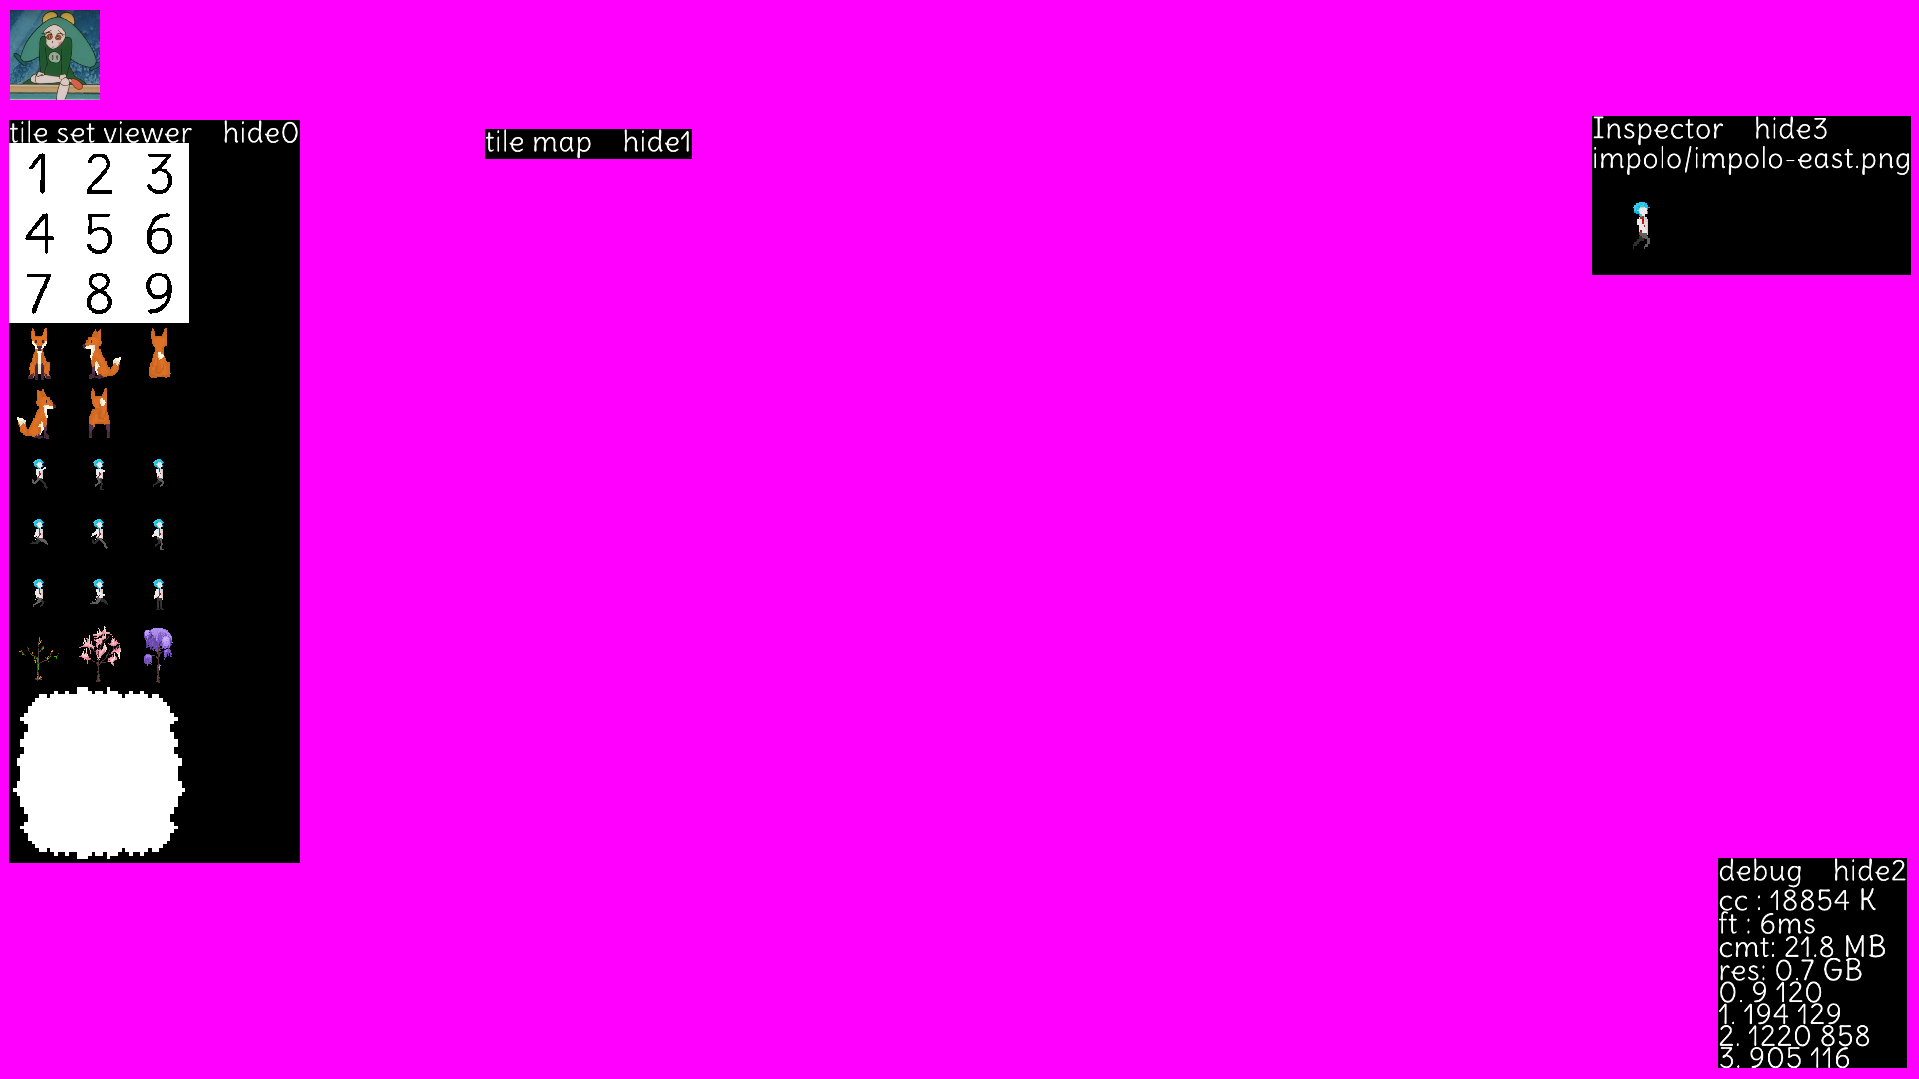
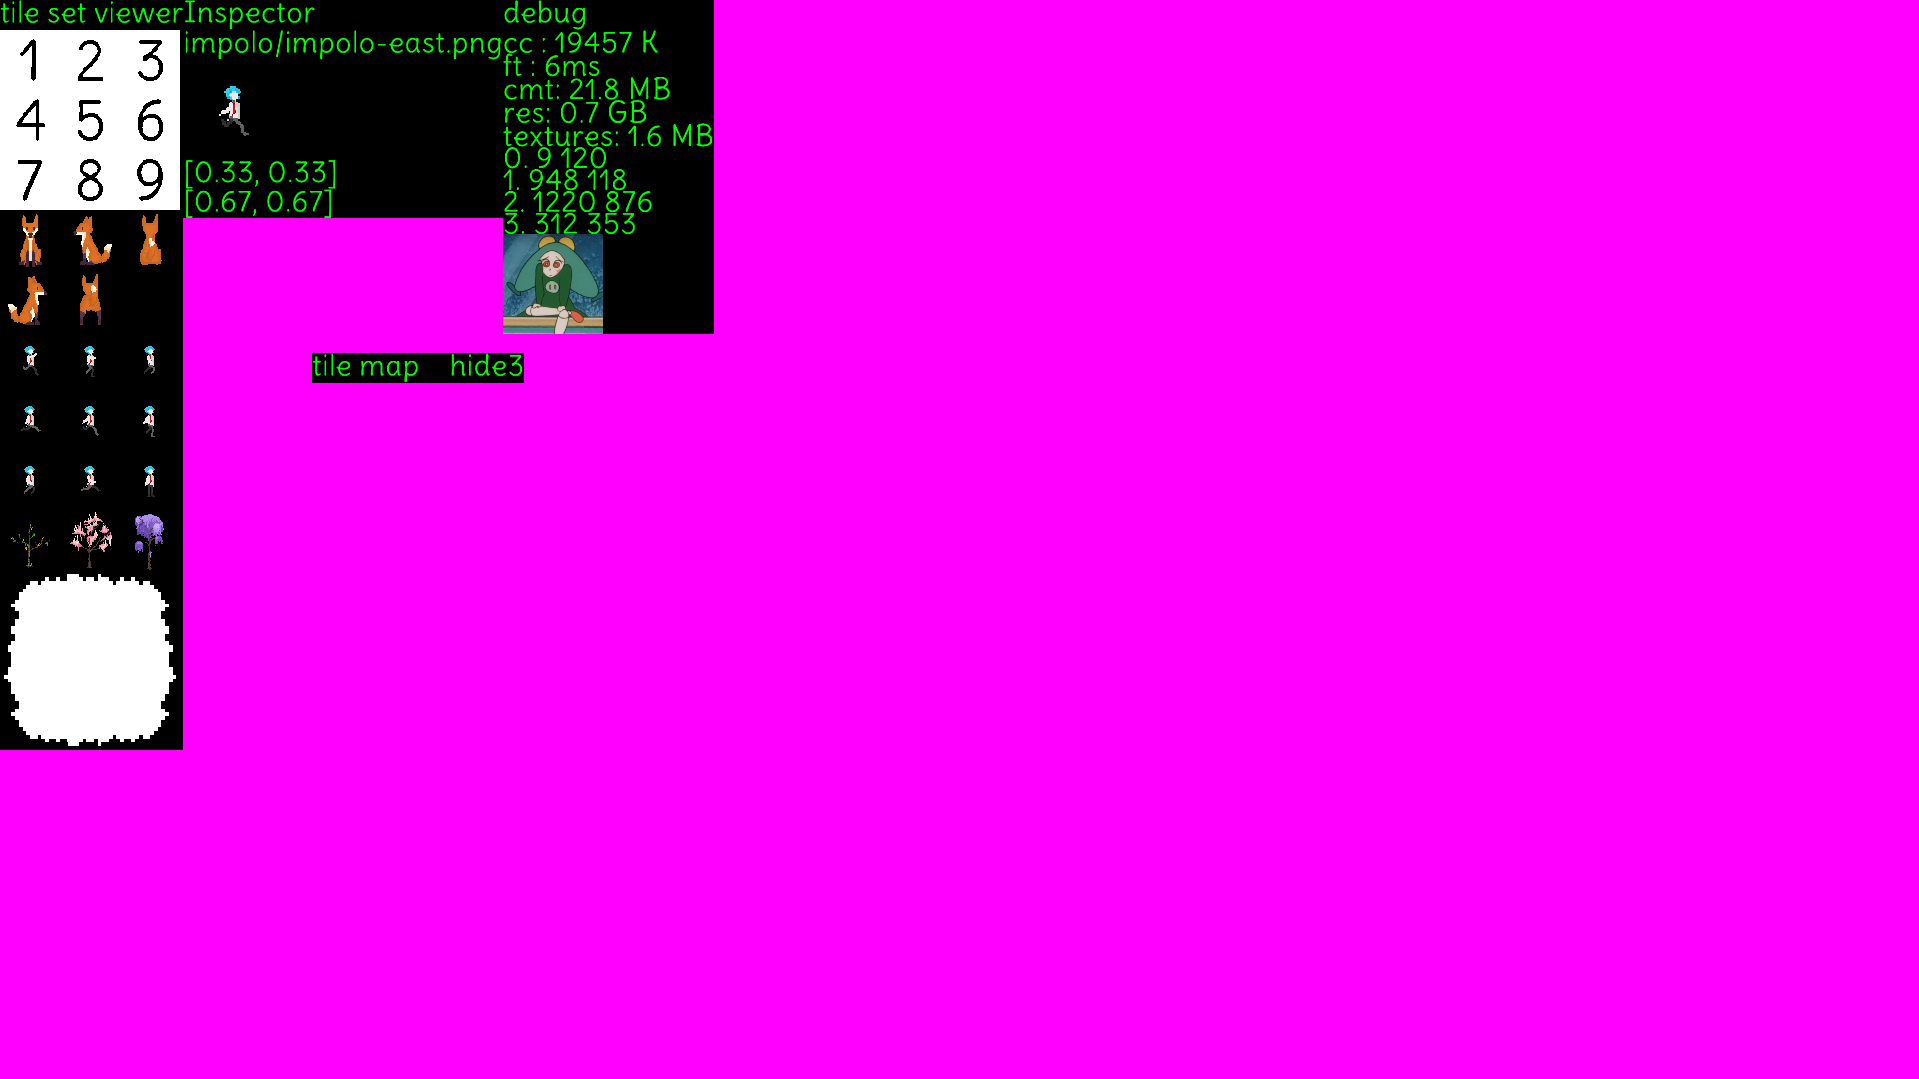
floating panels

Changed region(s): [[0.0, 0.0, 0.3997, 0.8258], [0.8301, 0.0918, 1.0, 0.2753], [0.8916, 0.7952, 1.0, 1.0]]

diff --git a/code/editor/editor.cpp b/code/editor/editor.cpp
@@ -50,55 +50,97 @@ void ed_update(State *state, OS_Event_list *events, f32 delta)
 		ed_state->arena = arena_create();
 		
 		ed_state->cxt = ui_alloc_cxt();
-		ed_state->panels[0].pos = {{9, 120}};
-		ed_state->panels[0].scale = v2f{{1.6,0.3}};
-		ed_state->panels[0].name = push_str8f(ed_state->arena, "tile set viewer");
 		
-		ed_state->panels[1].pos = {{391, 192}};
-		ed_state->panels[1].scale = v2f{{1.6,0.3}};
-		ed_state->panels[1].name = push_str8f(ed_state->arena, "tile map");
+		// panel construction
+		{
+			ED_Panel *p = ed_state->panels + ED_PanelKind_TileSetViewer;
+			p->pos = {{9, 120}};
+			p->scale = v2f{{1.6,0.3}};
+			p->name = push_str8f(ed_state->arena, "tile set viewer");
+		}
 		
-		ed_state->panels[2].pos = {{1218, 877}};
-		ed_state->panels[2].scale = v2f{{1.6,0.3}};
-		ed_state->panels[2].hide = 1;
-		ed_state->panels[2].name = push_str8f(ed_state->arena, "debug");
+		{
+			ED_Panel *p = ed_state->panels + ED_PanelKind_TileMap;
+			p->pos = {{312, 353}};
+			p->scale = v2f{{1.6,0.3}};
+			p->name = push_str8f(ed_state->arena, "tile map");
+			p->floating = 1;
+		}
 		
-		ed_state->panels[3].pos = {{948, 120}};
-		ed_state->panels[3].scale = v2f{{1.6,0.3}};
-		ed_state->panels[3].hide = 0;
-		ed_state->panels[3].name = push_str8f(ed_state->arena, "Inspector");
+		{
+			ED_Panel *p = ed_state->panels + ED_PanelKind_Debug;
+			p->pos = {{1218, 877}};
+			p->scale = v2f{{1.6,0.3}};
+			p->hide = 1;
+			p->name = push_str8f(ed_state->arena, "debug");
+		}
 		
+		{
+			ED_Panel *p = ed_state->panels + ED_PanelKind_Inspector;
+			p->pos = {{948, 120}};
+			p->scale = v2f{{1.6,0.3}};
+			p->hide = 0;
+			p->name = push_str8f(ed_state->arena, "Inspector");
+		}
 		ed_state->initialized = 1;
 	}
 	
 	v2s win_size = os_get_window_size(state->win);
 	ui_begin(ed_state->cxt, win_size, &state->atlas, events);
 	
-	ui_push_size_kind(ed_state->cxt, UI_SizeKind_ChildrenSum);
+	ui_set_next_child_layout_axis(ed_state->cxt, Axis2_X);
+	UI_Widget *dad = ui_make_widget(ed_state->cxt, str8_lit(""));
+	ui_push_parent(ed_state->cxt, dad);
 	
 	for(u32 i = 0; i < ED_PanelKind_COUNT; i++)
 	{
 		ED_Panel *panel = ed_state->panels + i;
 		
-		ui_bg_color(ed_state->cxt, D_COLOR_BLACK)
-			ui_text_color(ed_state->cxt, D_COLOR_WHITE)
+		ui_push_size_kind(ed_state->cxt, UI_SizeKind_ChildrenSum);
+		panel->root = ui_make_widget(ed_state->cxt, str8_lit(""));
+		panel->color = D_COLOR_BLACK;
+		
+		if(panel->floating)
+		{
+			panel->root->flags = (UI_Flags)(UI_Flags_is_floating_x | UI_Flags_is_floating_y);
+		}
+		
+		ui_push_parent(ed_state->cxt, panel->root);
+		
+		ui_text_color(ed_state->cxt, D_COLOR_GREEN)
 			ui_fixed_pos(ed_state->cxt, (panel->pos))
 			ui_col(ed_state->cxt)
 		{
 			// NOTE(mizu):  title bar, dragging and hiding
 			ui_row(ed_state->cxt)
 			{
+				UI_Signal hide = {};
+				
 				ui_push_size_kind(ed_state->cxt, UI_SizeKind_TextContent);
-				UI_Signal res = ui_label(ed_state->cxt, panel->name);
 				
-				ui_push_size_kind(ed_state->cxt, UI_SizeKind_Pixels);
-				ui_pref_width(ed_state->cxt, 30)
+				UI_Signal res = {};
+				
+				ui_pref_height(ed_state->cxt, 30)
+					ui_size_kind_y(ed_state->cxt, UI_SizeKind_Pixels)
 				{
-					ui_spacer(ed_state->cxt);
+					res = ui_label(ed_state->cxt, panel->name);
 				}
-				ui_pop_size_kind(ed_state->cxt);
 				
-				UI_Signal hide = ui_labelf(ed_state->cxt, "hide%d",i);
+				if(panel->floating)
+				{
+					ui_push_size_kind(ed_state->cxt, UI_SizeKind_Pixels);
+					ui_pref_width(ed_state->cxt, 30)
+					{
+						ui_spacer(ed_state->cxt);
+					}
+					ui_pop_size_kind(ed_state->cxt);
+					hide = ui_labelf(ed_state->cxt, "hide%d",i);
+				}
+				else
+				{
+					hide = res;
+				}
+				
 				if(res.active)
 				{
 					panel->grabbed = 1;
@@ -159,6 +201,15 @@ void ed_update(State *state, OS_Event_list *events, f32 delta)
 					}
 					ui_pop_size_kind(ed_state->cxt);
 					
+					R_Handle face = a_handle_from_path(str8_lit("debug/toppema.png"));
+					
+					ui_push_size_kind(ed_state->cxt, UI_SizeKind_Pixels);
+					ui_pref_width(ed_state->cxt, 100)
+						ui_pref_height(ed_state->cxt, 100)
+					{
+						ui_image(ed_state->cxt, face, rect(0,0,1,1), D_COLOR_WHITE, str8_lit("debug/toppema.png"));
+					}
+					ui_pop_size_kind(ed_state->cxt);
 				}
 				else if((ED_PanelKind)i == ED_PanelKind_Inspector)
 				{
@@ -166,7 +217,6 @@ void ed_update(State *state, OS_Event_list *events, f32 delta)
 					{
 						ui_push_size_kind(ed_state->cxt, UI_SizeKind_TextContent);
 						ui_labelf(ed_state->cxt, "%.*s", str8_varg(ed_state->selected_tile));
-						ui_pop_size_kind(ed_state->cxt);
 						
 						ui_push_size_kind(ed_state->cxt, UI_SizeKind_Pixels);
 						ui_pref_width(ed_state->cxt, 100)
@@ -178,47 +228,61 @@ void ed_update(State *state, OS_Event_list *events, f32 delta)
 						}
 						ui_pop_size_kind(ed_state->cxt);
 						
+						ui_labelf(ed_state->cxt, "[%.2f, %.2f]", rect_tl_varg(ed_state->selected_tile_rect));
+						ui_labelf(ed_state->cxt, "[%.2f, %.2f]", rect_br_varg(ed_state->selected_tile_rect));
+						ui_pop_size_kind(ed_state->cxt);
+						
 					}
 				}
-				
 			}
 		}
+		ui_pop_size_kind(ed_state->cxt);
+		ui_pop_parent(ed_state->cxt);
 	}
+	ui_layout(dad);
 	
-	ui_pop_size_kind(ed_state->cxt);
+	for(u32 i = 0; i < 4; i ++)
+		ed_draw_panel(&ed_state->panels[i], ed_state->panels[i].root);
+	
+	ui_pop_parent(ed_state->cxt);
 	ui_end(ed_state->cxt);
-	
-	ui_layout(ed_state->cxt->root);
-	
-	ed_draw_panel(ed_state->cxt->root);
 	
 	ed_state->old_pos = ed_state->cxt->mpos;
 }
 
-void ed_draw_panel(UI_Widget *root)
+void ed_draw_panel(ED_Panel *panel, UI_Widget *root)
 {
-	UI_Widget *parent = root->first;
+	UI_Widget *parent = root;
 	
-	for(u32 i = 0; i < ED_PanelKind_COUNT; i++)
+	parent->pos.x = parent->computed_rel_position[0];
+	parent->pos.y = parent->computed_rel_position[1];
+	
+	if(panel->floating)
 	{
-		parent->pos.x = parent->computed_rel_position[0] + parent->fixed_position.x;
-		parent->pos.y = parent->computed_rel_position[1] + parent->fixed_position.y;
-		parent->size.x = parent->computed_size[0];
-		parent->size.y = parent->computed_size[1];
-		
-		d_draw_rect(rect(parent->pos, parent->size), parent->bg_color);
-		
-		ed_draw_children(parent);
-		parent = parent->next;
+		parent->pos.x +=  panel->pos.x;
+		parent->pos.y +=  panel->pos.y;
 	}
+	
+	parent->size.x = parent->computed_size[0];
+	parent->size.y = parent->computed_size[1];
+	
+	d_draw_rect(rect(parent->pos, parent->size), panel->color);
+	
+	ed_draw_children(panel, parent);
 }
 
-void ed_draw_children(UI_Widget *root)
+void ed_draw_children(ED_Panel *panel, UI_Widget *root)
 {
-	root->pos.x = root->computed_rel_position[0] + root->fixed_position.x;
-	root->pos.y = root->computed_rel_position[1] + root->fixed_position.y;
+	root->pos.x = root->computed_rel_position[0];
+	root->pos.y = root->computed_rel_position[1];
 	root->size.x = root->computed_size[0];
 	root->size.y = root->computed_size[1];
+	
+	if(panel->floating)
+	{
+		root->pos.x += root->fixed_position.x;
+		root->pos.y += root->fixed_position.y;
+	}
 	
 	if(root->flags & UI_Flags_has_text)
 	{
@@ -250,6 +314,6 @@ void ed_draw_children(UI_Widget *root)
 	
 	for(UI_Widget *child = root->first; child; child = child->next)
 	{
-		ed_draw_children(child);
+		ed_draw_children(panel, child);
 	}
 }

diff --git a/code/ui/ui.h b/code/ui/ui.h
@@ -7,7 +7,8 @@
 
 enum Axis2
 {
-	Axis2_X,
+	Axis2_0 = -1,
+	Axis2_X = 0,
 	Axis2_Y,
 	Axis2_COUNT
 };
@@ -42,6 +43,8 @@ enum UI_Flags
 	UI_Flags_clickable = 1 << 2,
 	UI_Flags_has_img = 1 << 3,
 	UI_Flags_has_scroll = 1 << 4,
+	UI_Flags_is_floating_x = 1 << 5,
+	UI_Flags_is_floating_y = 1 << 6,
 };
 
 struct UI_Widget;
@@ -134,7 +137,6 @@ struct UI_Context
 	u64 hash_table_size;
 	UI_Hash_slot *hash_slots;
 	
-	UI_Widget *root;
 	u64 frames;
 	Atlas *atlas;
 	
@@ -363,6 +365,7 @@ function UI_Context *ui_alloc_cxt()
 	ui_push_pref_height(cxt, 0);
 	ui_push_fixed_pos(cxt, v2f{{0,0}});
 	ui_push_size_kind(cxt, UI_SizeKind_Null);
+	
 	cxt->frames = 0;
 	
 	return cxt;
@@ -736,6 +739,11 @@ function UI_Signal ui_spacer(UI_Context *cxt)
 #define ui_text_color(cxt, v) UI_DeferLoop(ui_push_text_color(cxt, v), ui_pop_text_color(cxt))
 #define ui_bg_color(cxt, v) UI_DeferLoop(ui_push_bg_color(cxt, v), ui_pop_bg_color(cxt))
 
+#define ui_size_kind_x(cxt, v) UI_DeferLoop(ui_push_size_kind_x(cxt, v), ui_pop_size_kind_x(cxt))
+
+#define ui_size_kind_y(cxt, v) UI_DeferLoop(ui_push_size_kind_y(cxt, v), ui_pop_size_kind_y(cxt))
+
+
 #define ui_pref_width(cxt, v) UI_DeferLoop(ui_push_pref_width(cxt, v), ui_pop_pref_width(cxt))
 #define ui_pref_height(cxt, v) UI_DeferLoop(ui_push_pref_height(cxt, v), ui_pop_pref_height(cxt))
 
@@ -819,11 +827,17 @@ function void ui_layout_pos(UI_Widget *root)
 	{
 		if(root->parent->child_layout_axis == Axis2_X)
 		{
-			root->computed_rel_position[Axis2_X] = root->prev->computed_rel_position[Axis2_X] + root->prev->computed_size[Axis2_X];
+			if(!(root->flags & UI_Flags_is_floating_x))
+			{
+				root->computed_rel_position[Axis2_X] = root->prev->computed_rel_position[Axis2_X] + root->prev->computed_size[Axis2_X];
+			}
 		}
 		else if(root->parent->child_layout_axis == Axis2_Y)
 		{
-			root->computed_rel_position[Axis2_Y] = root->prev->computed_rel_position[Axis2_Y] + root->prev->computed_size[Axis2_Y];
+			if(!(root->flags & UI_Flags_is_floating_y))
+			{
+				root->computed_rel_position[Axis2_Y] = root->prev->computed_rel_position[Axis2_Y] + root->prev->computed_size[Axis2_Y];
+			}
 		}
 	}
 	
@@ -905,15 +919,12 @@ function void ui_begin(UI_Context *cxt, v2s win_size, Atlas *atlas, OS_Event_lis
 	
 	cxt->frame_arena->used = ARENA_HEADER_SIZE;
 	
-	UI_Widget *root = ui_make_widget(cxt, str8_lit("rootere"));
-	ui_push_parent(cxt, root);
-	cxt->root = root;
 	cxt->frames++;
 }
 
 function void ui_end(UI_Context *cxt)
 {
-	ui_pop_parent(cxt);
+	//ui_pop_parent(cxt);
 	
 	for(u32 i = 0; i < cxt->hash_table_size; i++)
 	{

diff --git a/code/game/game.cpp b/code/game/game.cpp
@@ -50,10 +50,13 @@ void update_and_render(void *memory, f32 delta)
 			
 			'&', '.', '?', ',', '-', ':', '!', '\\', '/',
 			
+			'(', ')', '[', ']', '{', '}',
+			
 			' ', '\n'
 		};
 		
 		Arena_temp temp = arena_temp_begin(state->trans);
+		
 		Str8 font_path = str8_join(state->trans, state->app_dir, str8_lit("../data/assets/fonts/delius.ttf"));
 		Glyph *temp_font = make_bmp_font(font_path.c, codepoints, ARRAY_LEN(codepoints), state->trans);
 		
@@ -101,8 +104,6 @@ void update_and_render(void *memory, f32 delta)
 	D_Bucket *draw = d_bucket();
 	d_push_bucket(draw);
 	//d_push_proj_view(m4f_ortho(-aspect * zoom, aspect * zoom, -zoom, zoom, -1.001, 1000).fwd);
-	R_Handle face = a_handle_from_path(str8_lit("debug/toppema.png"));
-	d_draw_img(rect(10, 10, 100, 100), rect(0, 0, 1, 1), D_COLOR_WHITE, face);
 	
 	ed_update(state, &state->events, delta);
 	

diff --git a/code/editor/editor.h b/code/editor/editor.h
@@ -6,23 +6,25 @@
 enum ED_PanelKind
 {
 	ED_PanelKind_TileSetViewer,
-	ED_PanelKind_TileMap,
-	ED_PanelKind_Debug,
 	ED_PanelKind_Inspector,
+	ED_PanelKind_Debug,
+	ED_PanelKind_TileMap,
 	ED_PanelKind_COUNT
 };
 
 struct ED_Panel
 {
+	UI_Widget *root;
 	Str8 name;
 	b32 hide;
+	b32 floating;
 	v2f pos;
 	v2f scale;
 	b32 grabbed;
 	f32 update_timer;
 	f32 cc;
 	f32 ft;
-	
+	v4f color;
 };
 
 struct ED_State
@@ -41,7 +43,7 @@ struct State;
 
 function void ed_update(State *state, OS_Event_list *events, f32 delta);
 function void ed_draw_spritesheet(ED_State *ed_state, f32 x, f32 y, Str8 path);
-function void ed_draw_panel(UI_Widget *root);
-function void ed_draw_children(UI_Widget *root);
+function void ed_draw_panel(ED_Panel *panel, UI_Widget *root);
+function void ed_draw_children(ED_Panel *panel, UI_Widget *root);
 
 #endif //EDITOR_H

diff --git a/code/file/file_handler.h b/code/file/file_handler.h
@@ -22,6 +22,10 @@ function Rect rect(f32 tl_x, f32 tl_y, f32 br_x, f32 br_y)
 	return out;
 }
 
+#define rect_tl_varg(v) (v).tl.x, (v).tl.y
+#define rect_br_varg(v) (v).br.x, (v).br.y
+#define rect_varg(v) rect_tl_varg(v), rect_br_varg(v)
+
 function Rect rect(v2f pos, v2f scale)
 {
 	Rect out = {};
